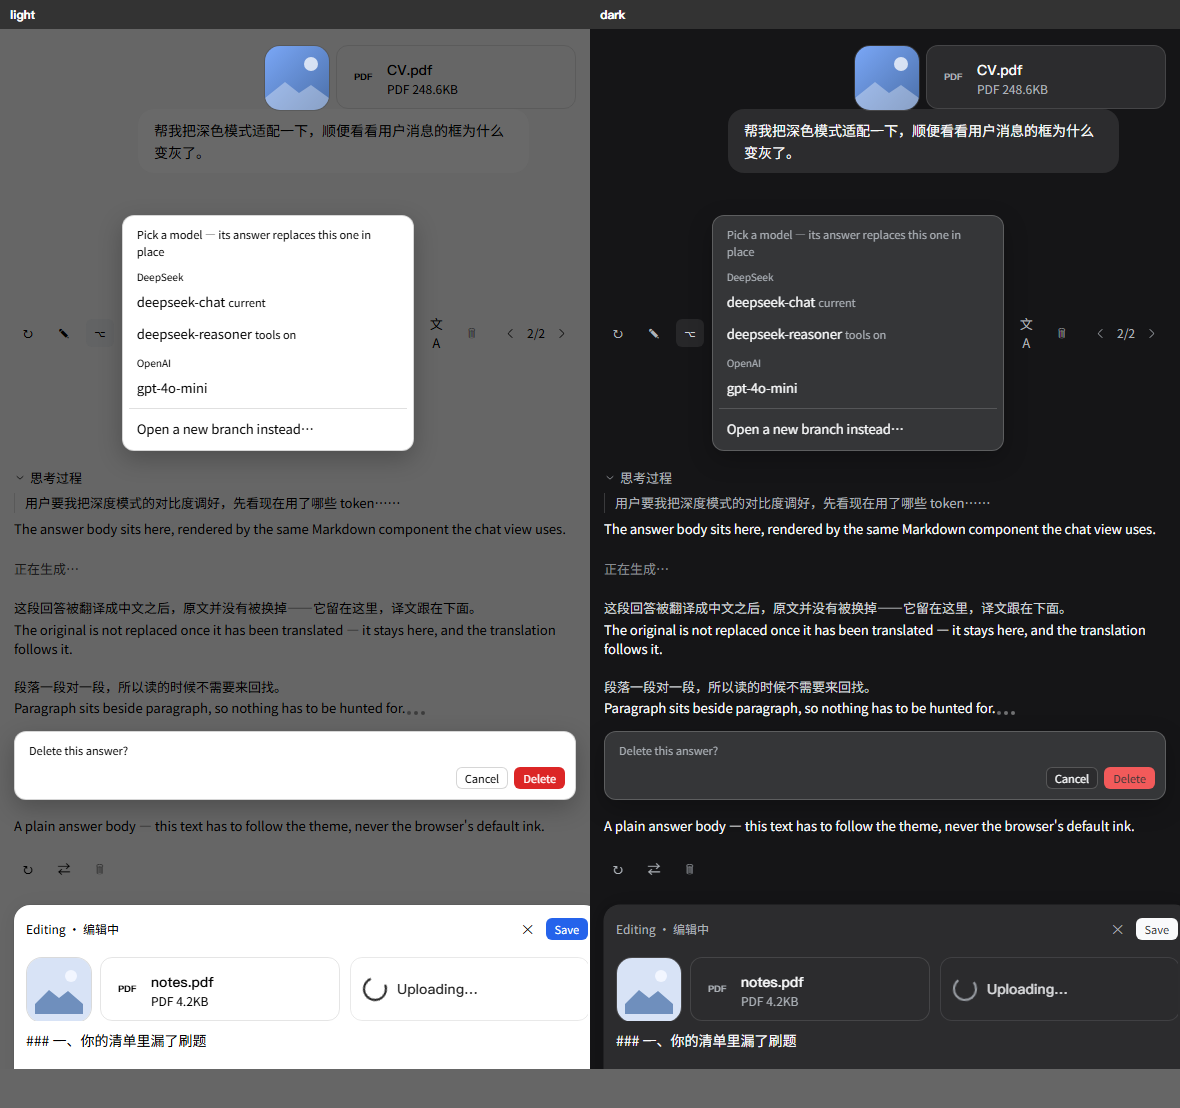
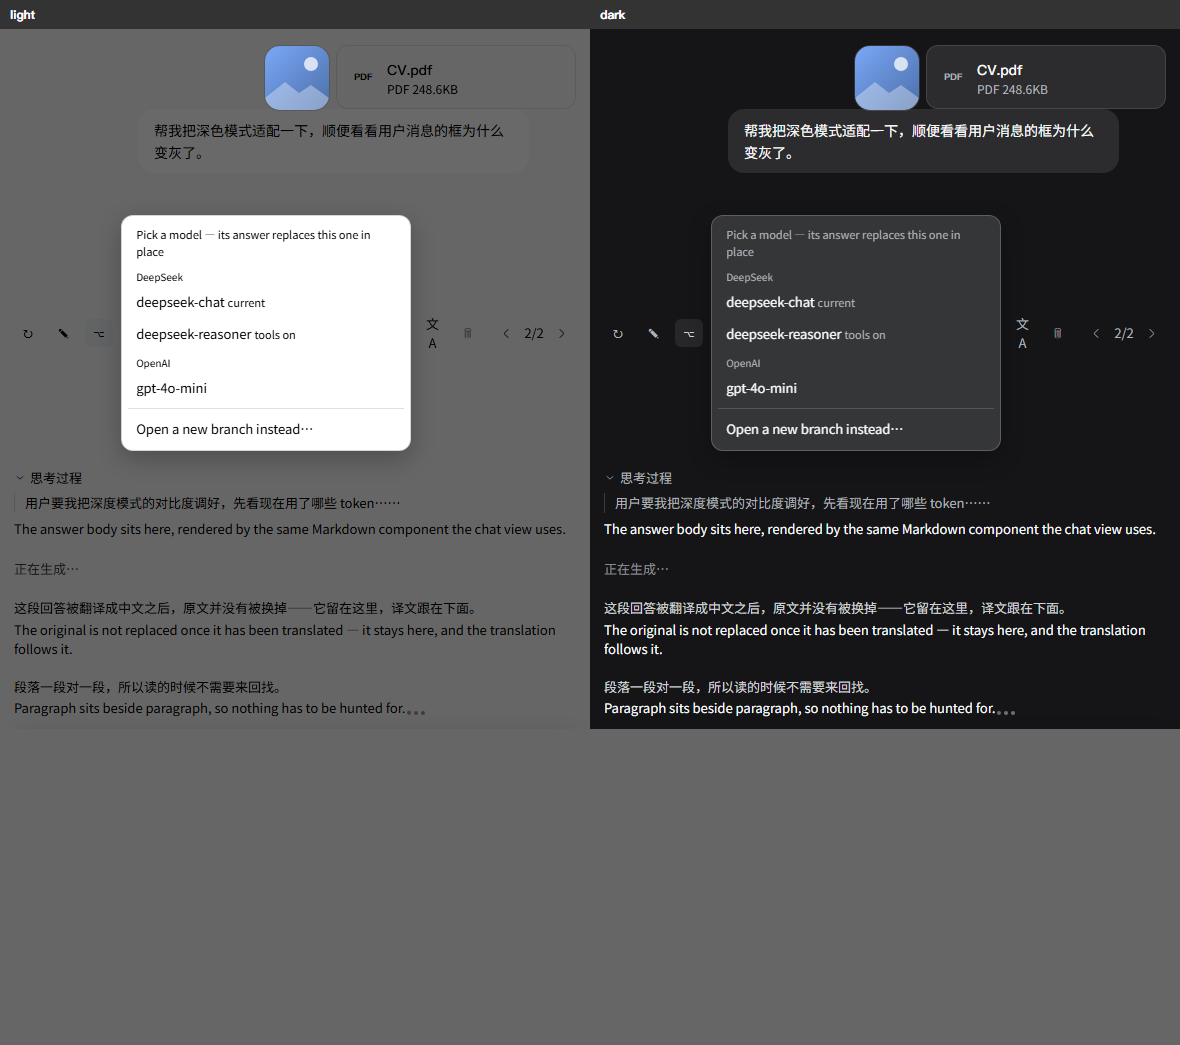
docs: how Cherry Studio's toolbar is built, and what we took from it

diff --git a/lib/client.js b/lib/client.js
@@ -4642,7 +4642,7 @@ const CSS = [
   // The count of an answer row is a button that opens the answers by name, so it
   // has to look like the two arrows beside it — same box, same hover — while
   // staying wide enough for `12/12`.
-  '.mtt-ring-num{min-width:26px;padding:0 3px;font-size:calc(12px + var(--dsh-content-font-delta,0px));line-height:1;font-variant-numeric:tabular-nums;color:var(--mtt-fg-3)}',
+  '.mtt-ring-num{min-width:26px;padding:0 3px;height:calc(28px + var(--dsh-content-font-delta,0px));display:inline-flex;align-items:center;justify-content:center;font-size:calc(12px + var(--dsh-content-font-delta,0px));line-height:1;font-variant-numeric:tabular-nums;color:var(--mtt-fg-3)}',
   '.mtt-ring-btn{background:0 0;border:0;cursor:pointer;padding:6px;width:calc(28px + var(--dsh-content-font-delta,0px));height:calc(28px + var(--dsh-content-font-delta,0px));border-radius:var(--mtt-radius-sm);color:var(--mtt-fg-3);display:inline-flex;align-items:center;justify-content:center;font:inherit}',
   '.mtt-ring-btn:hover:not(:disabled){background:var(--mtt-hover);color:var(--mtt-fg-2)}',
   '.mtt-ring-btn svg{width:calc(17px + var(--dsh-content-font-delta,0px));height:calc(17px + var(--dsh-content-font-delta,0px));display:block}',

diff --git a/plugin.client.js b/plugin.client.js
@@ -4622,7 +4622,7 @@ const CSS = [
   // The count of an answer row is a button that opens the answers by name, so it
   // has to look like the two arrows beside it — same box, same hover — while
   // staying wide enough for `12/12`.
-  '.mtt-ring-num{min-width:26px;padding:0 3px;font-size:calc(12px + var(--dsh-content-font-delta,0px));line-height:1;font-variant-numeric:tabular-nums;color:var(--mtt-fg-3)}',
+  '.mtt-ring-num{min-width:26px;padding:0 3px;height:calc(28px + var(--dsh-content-font-delta,0px));display:inline-flex;align-items:center;justify-content:center;font-size:calc(12px + var(--dsh-content-font-delta,0px));line-height:1;font-variant-numeric:tabular-nums;color:var(--mtt-fg-3)}',
   '.mtt-ring-btn{background:0 0;border:0;cursor:pointer;padding:6px;width:calc(28px + var(--dsh-content-font-delta,0px));height:calc(28px + var(--dsh-content-font-delta,0px));border-radius:var(--mtt-radius-sm);color:var(--mtt-fg-3);display:inline-flex;align-items:center;justify-content:center;font:inherit}',
   '.mtt-ring-btn:hover:not(:disabled){background:var(--mtt-hover);color:var(--mtt-fg-2)}',
   '.mtt-ring-btn svg{width:calc(17px + var(--dsh-content-font-delta,0px));height:calc(17px + var(--dsh-content-font-delta,0px));display:block}',

diff --git a/docs/cherry-studio-comparison.md b/docs/cherry-studio-comparison.md
@@ -1,0 +1,90 @@
+# Cherry Studio 对照笔记
+
+这份笔记是 1.7.0 的来由：把 Cherry Studio 的消息区源码读了一遍，逐项对照，挑出能搬过来、
+搬过来值得的几处，其余记下「为什么不搬」。
+
+源码位置以 `CherryHQ/cherry-studio` 的 `src/renderer/components/chat/messages/` 为准
+（浅克隆 `--depth 1 --filter=blob:none --sparse` 只取 `src/renderer`，约 30 秒）。
+
+## 它那边是怎么组织的
+
+| 文件 | 作用 |
+| --- | --- |
+| `frame/messageMenuBarActions.tsx` | 动作注册表。`registerToolbarAction` / `registerAction`，每项带 `id`、`label`、`icon`、`group`/`order`、`surface: 'menu'`、`confirm`，以及 `availability(context)` 返回 `{ visible, enabled, reason }` |
+| `frame/MessageMenuBarToolbarRenderers.tsx` | 工具栏渲染器：确认弹窗、翻译子菜单、模型选择器、「更多」菜单 |
+| `list/SiblingNavigator.tsx` | 用户消息旁的 `‹ i/N ▾ ›` 分支切换器 |
+| `list/MessageGroup*.tsx` | 多模型同问的分组：布局切换、模型 chips、整组重试/删除 |
+| `blocks/MessageTranslate.tsx`、`TranslationBlock.tsx` | 译文块：分隔线 + 语言图标 + 垃圾桶，正文以 markdown 流式打字 |
+| `utils/messageDeleteAvailability.ts` | 删除可用的两种否定理由：`not-loaded`、`generating` |
+
+要点是**动作是一个注册表**，每项自己声明「什么时候出现、什么时候能按、按了要不要确认」，
+渲染层只负责摆位置。我们这边是写死的几个按钮，够用但扩展性差；这一层没有照搬，因为插件的
+动作集合是固定的，多一层注册表只是多一层间接。
+
+## 工具栏按钮对照
+
+| Cherry | 我们 | 结论 |
+| --- | --- | --- |
+| copy（含「复制纯文本 / 复制图片」） | 原生复制 + 1.7.0 起「复制这条回答」 | **采纳**：见下 |
+| read-aloud（朗读） | —— | 不搬：DSH 没有 TTS 通道，只能自己接一个云端接口，和插件的定位不符 |
+| regenerate | 重新生成（就地） | 一致 |
+| mention-model（换个模型重答） | 切换模型 | 一致 |
+| translate（翻译中变成暂停键，可中断） | 翻译（翻译中图标转圈，不可中断） | 半采纳：进度有，中断没做——`ctx.llm.stream` 要贯穿一个 `AbortSignal` 到宿主，改动面比这一轮该做的事大 |
+| useful（把某条回答标为「用于上下文」） | —— | 不搬：DSH 的上下文由日志决定，标了也不会改变模型看到什么，标了就是骗人 |
+| notes / knowledge / export | —— | 不搬：属于笔记与导出体系，和消息工具栏是两件事 |
+| delete（`generating` 时禁用并给理由） | 删除（生成中禁用） | **采纳理由文案** |
+| more-menu（edit/分支/多选/导出） | 编辑、分支在行内 | 一致，位置不同 |
+
+## 1.7.0 实际改的四处
+
+### 1. `2/3` 不只是数字，点开是答案列表
+
+Cherry 的 `SiblingNavigator` 是 `‹ 2/3 ▾ ›`：箭头走相邻，**中间的数字是下拉**，
+列表里每条是「序号 + 预览 + 当前项打勾」，点哪条跳哪条。两个箭头只能一步步挪，
+问题问到第四遍时就很难用了；而一个光秃秃的 `2/3` 也从不告诉读者哪条是哪个模型写的。
+
+所以我们把行里那个计数改成按钮（`RingMenuHost` + `ringChoices`）：
+
+- 答案以轮次形式存在时（`runs`），行是 `/1. 模型原始回答/`、`/2. deepseek-flash/`……
+  模型来自建组时记下的 `runs[key].models[turn]`，不是猜的；组里第一条按「模型原始回答」命名，
+  和备选环的第 1 格同一个说法。
+- 答案以插件状态存在时（`answers`），行是 `native` + 每个备选，备选按 provider/model 命名。
+- 打勾用原生 `Menu` 的 `selection: 'check'`；`align: 'end'`、`side` 跟着翻转逻辑走，
+  选中直接发 `run-select` / `answer-select`，不经过「走一步」。
+
+### 2. 译文可以单独复制
+
+Cherry 的翻译菜单在语言列表下面隔一条线，放「📋 复制译文」「✖ 移除译文」。我们原来只有
+「隐藏译文」。逐段对照把原文和译文并排画出来之后，想只要译文的人反而得用鼠标去挑——
+所以菜单里加了 `COPY_TRANSLATION_ROW`，写的是 `translationOf(state, turn).text`（译文本身），
+不是屏幕上的对照文本。
+
+### 3. 垃圾桶禁用时说清楚为什么
+
+Cherry 的 `getMessageDeleteUnavailableText` 把 `generating` 翻成一句人话。我们原来在生成中
+也禁用，但 tooltip 还是「删除这条回答」——对着一个按不动的按钮说「删」，等于没说。
+现在生成中标题是「等这轮回答写完再删除」。
+
+### 4. 复制要复制屏幕上那条
+
+这是对照时发现的一个真 bug，不是 Cherry 有而我们没有：DSH 原生的复制按钮读的是**日志里的**
+回答。一旦屏幕上是换来的备选、编辑过的版本或译文，行上唯一的复制按钮复制的是读者看不见的
+那段文字。现在这种行会多一个自己的复制按钮（`data-mtt="copy-answer"`），写的就是屏幕上的文字；
+答案以轮次形式存在时不需要——那时屏幕上的回答本身就是一条日志回答，原生复制本来就对。
+
+## 看过但没有搬的
+
+- **分组布局切换（fold / vertical / horizontal / grid）**。Cherry 能把同一个问题的多个模型
+  回答并排或网格铺开。我们这边「一条显示、其余隐藏」是因为 DSH 的日志只认一条回答，
+  并排需要把每条回答的 markdown 都塞进同一个插槽里自己排版，视觉收益不如风险大；
+  真要对比，现在的答案是「开两个会话」或者版本树。
+- **动作注册表**。Cherry 需要它是因为动作由设置、插件、命令面板共同决定；我们的动作集合是
+  固定的十一二个，注册表只会让调用链更长。
+- **多选批量删除**。Cherry 有 multi-select 模式。我们的删除是「整轮隐藏」的视图标记，
+  批量删除要一次写多条标记，收益有限。
+- **朗读、笔记、知识库、导出**。都属于消息之外的体系。
+
+## 结论
+
+值得搬的是**交互形状**，不是功能清单：数字点开是列表、破坏性动作说清楚为什么按不动、
+复制跟着屏幕上看到的东西走。这三条与 DSH 的日志不变性无关，改起来风险小、收益直接。

diff --git a/README.md b/README.md
@@ -57,6 +57,12 @@ DSH（DeepSeek Harness）消息工具栏插件。
 
 - DSH `0.2.0-rc.2` … `0.2.x`
 
+## 设计笔记
+
+- [`docs/ARCHITECTURE.md`](./docs/ARCHITECTURE.md)：插槽、路由、状态、样式表的来龙去脉。
+- [`docs/cherry-studio-comparison.md`](./docs/cherry-studio-comparison.md)：和 Cherry Studio 消息区的逐项对照，
+  以及 1.7.0 那几处改动是照着哪一点改的。
+
 ## 安装
 
 从仓库直接装：
